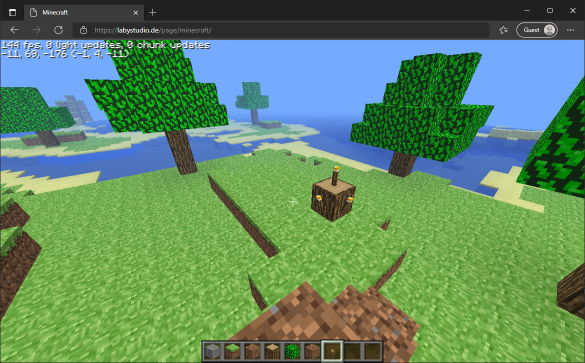
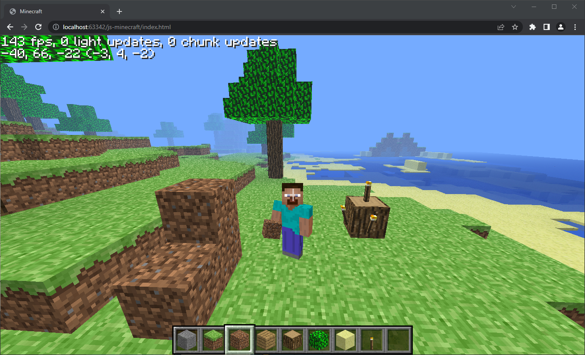
update README
(cherry picked from commit 5643865e0db65bb77ed93920ae0d2841bd082a1e)

diff --git a/README.md b/README.md
@@ -21,6 +21,11 @@ Click [here](https://labystudio.github.io/js-minecraft/) for a demo!
     - Smooth lightning
     - Day/Night
     - Block light source
+- Entity Rendering
+    - Item in hand
+    - Arm swing animation
+    - Walking animation
+    - Crouch animation
 - World
     - 16x16x16 Chunks
     - Block type, data, sky & block lightning
@@ -30,6 +35,7 @@ Click [here](https://labystudio.github.io/js-minecraft/) for a demo!
     - Fog
     - Underwater fog
     - Dynamic FOV
+    - Third person
 - GUI
     - Screens
         - Loading Screen
